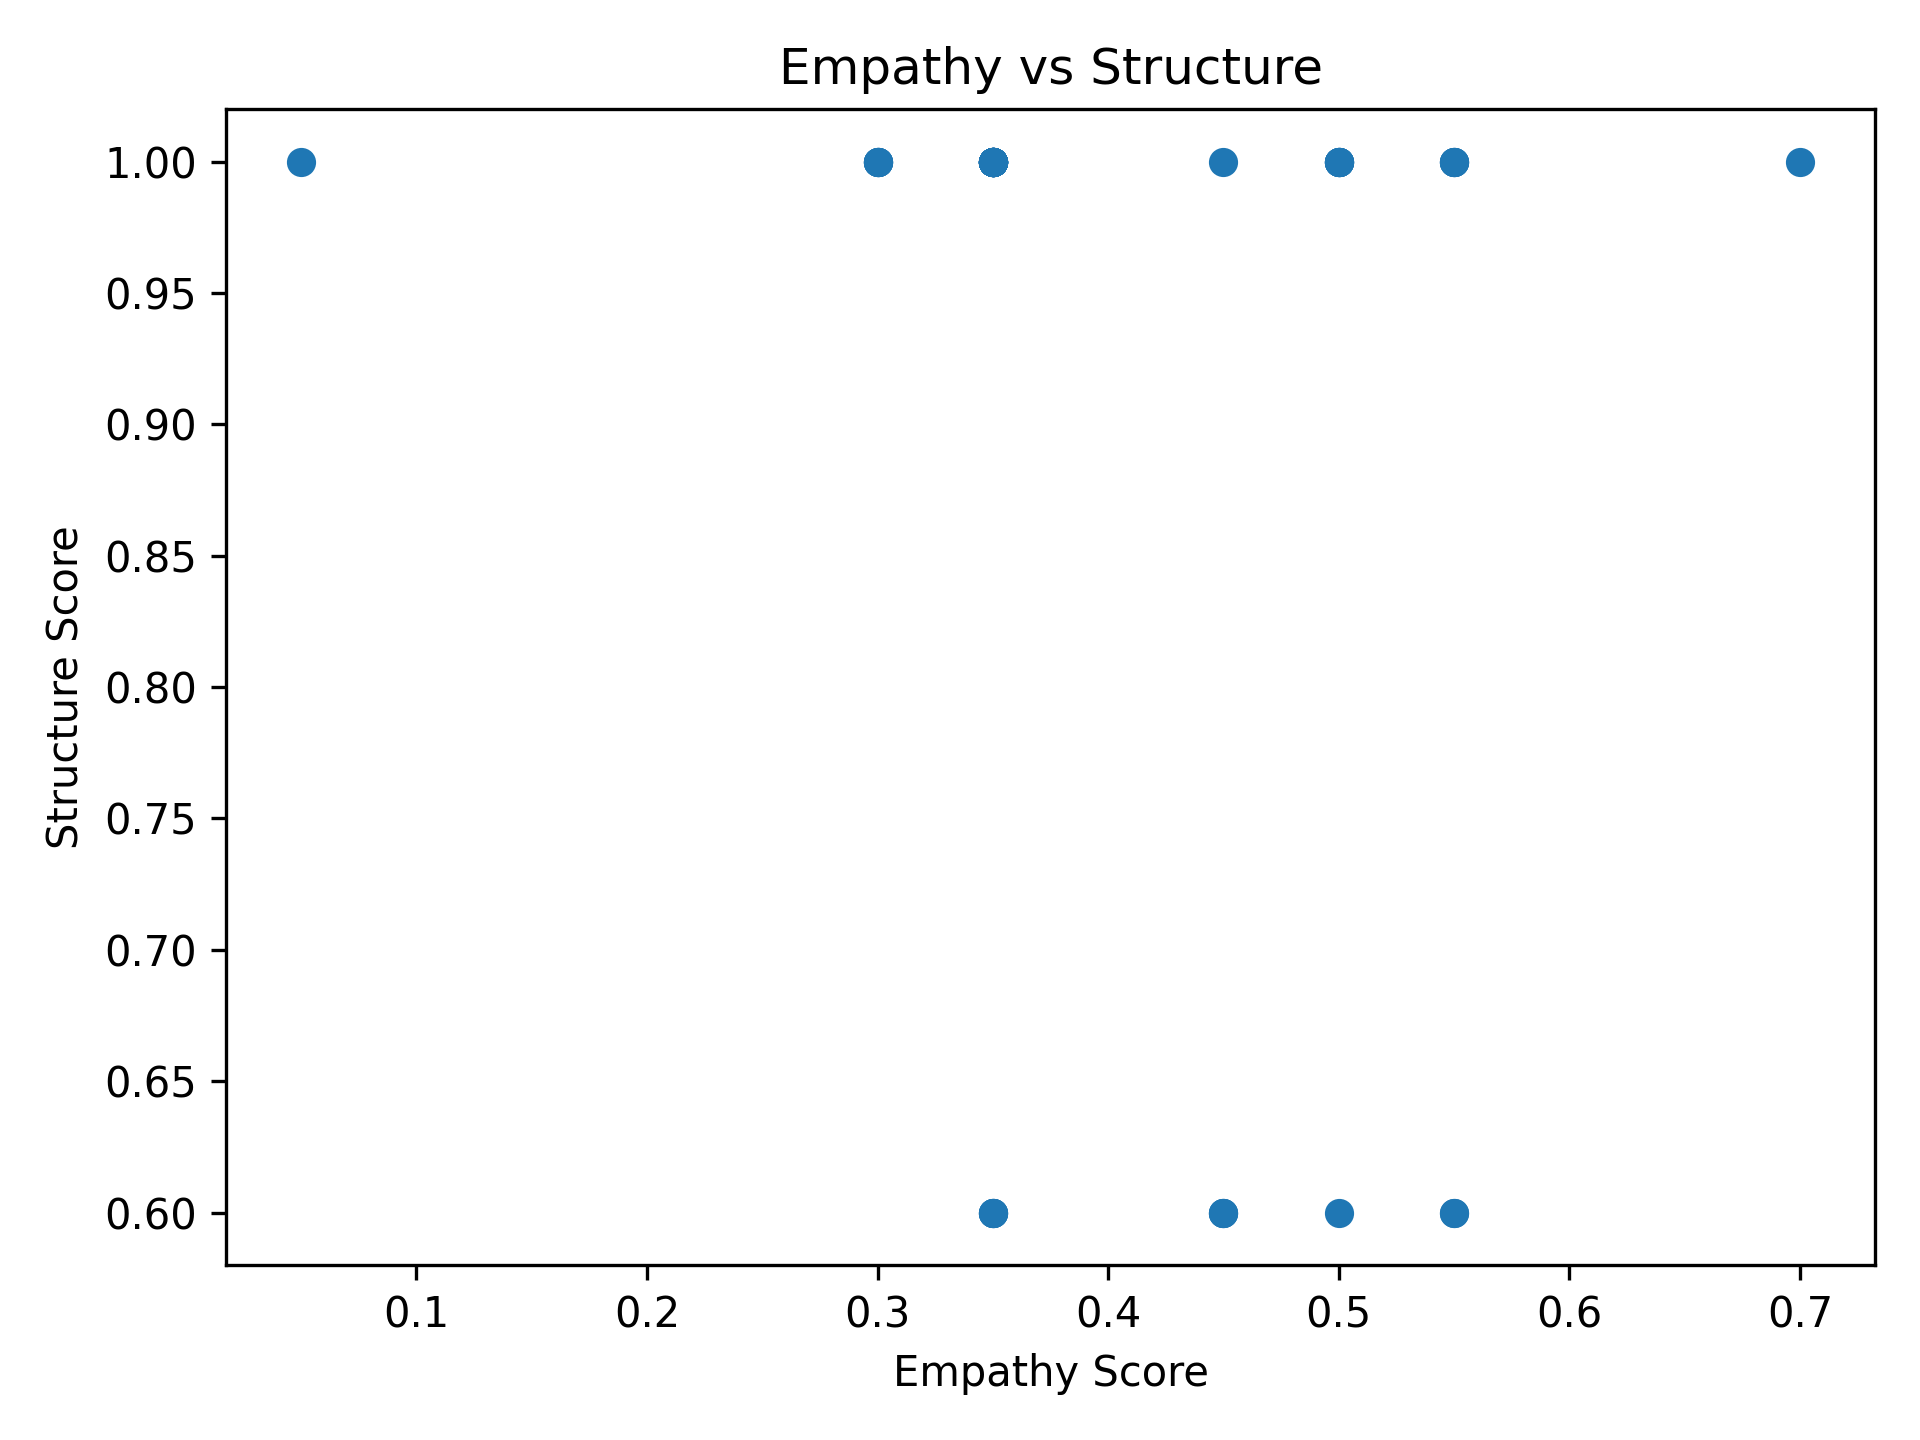
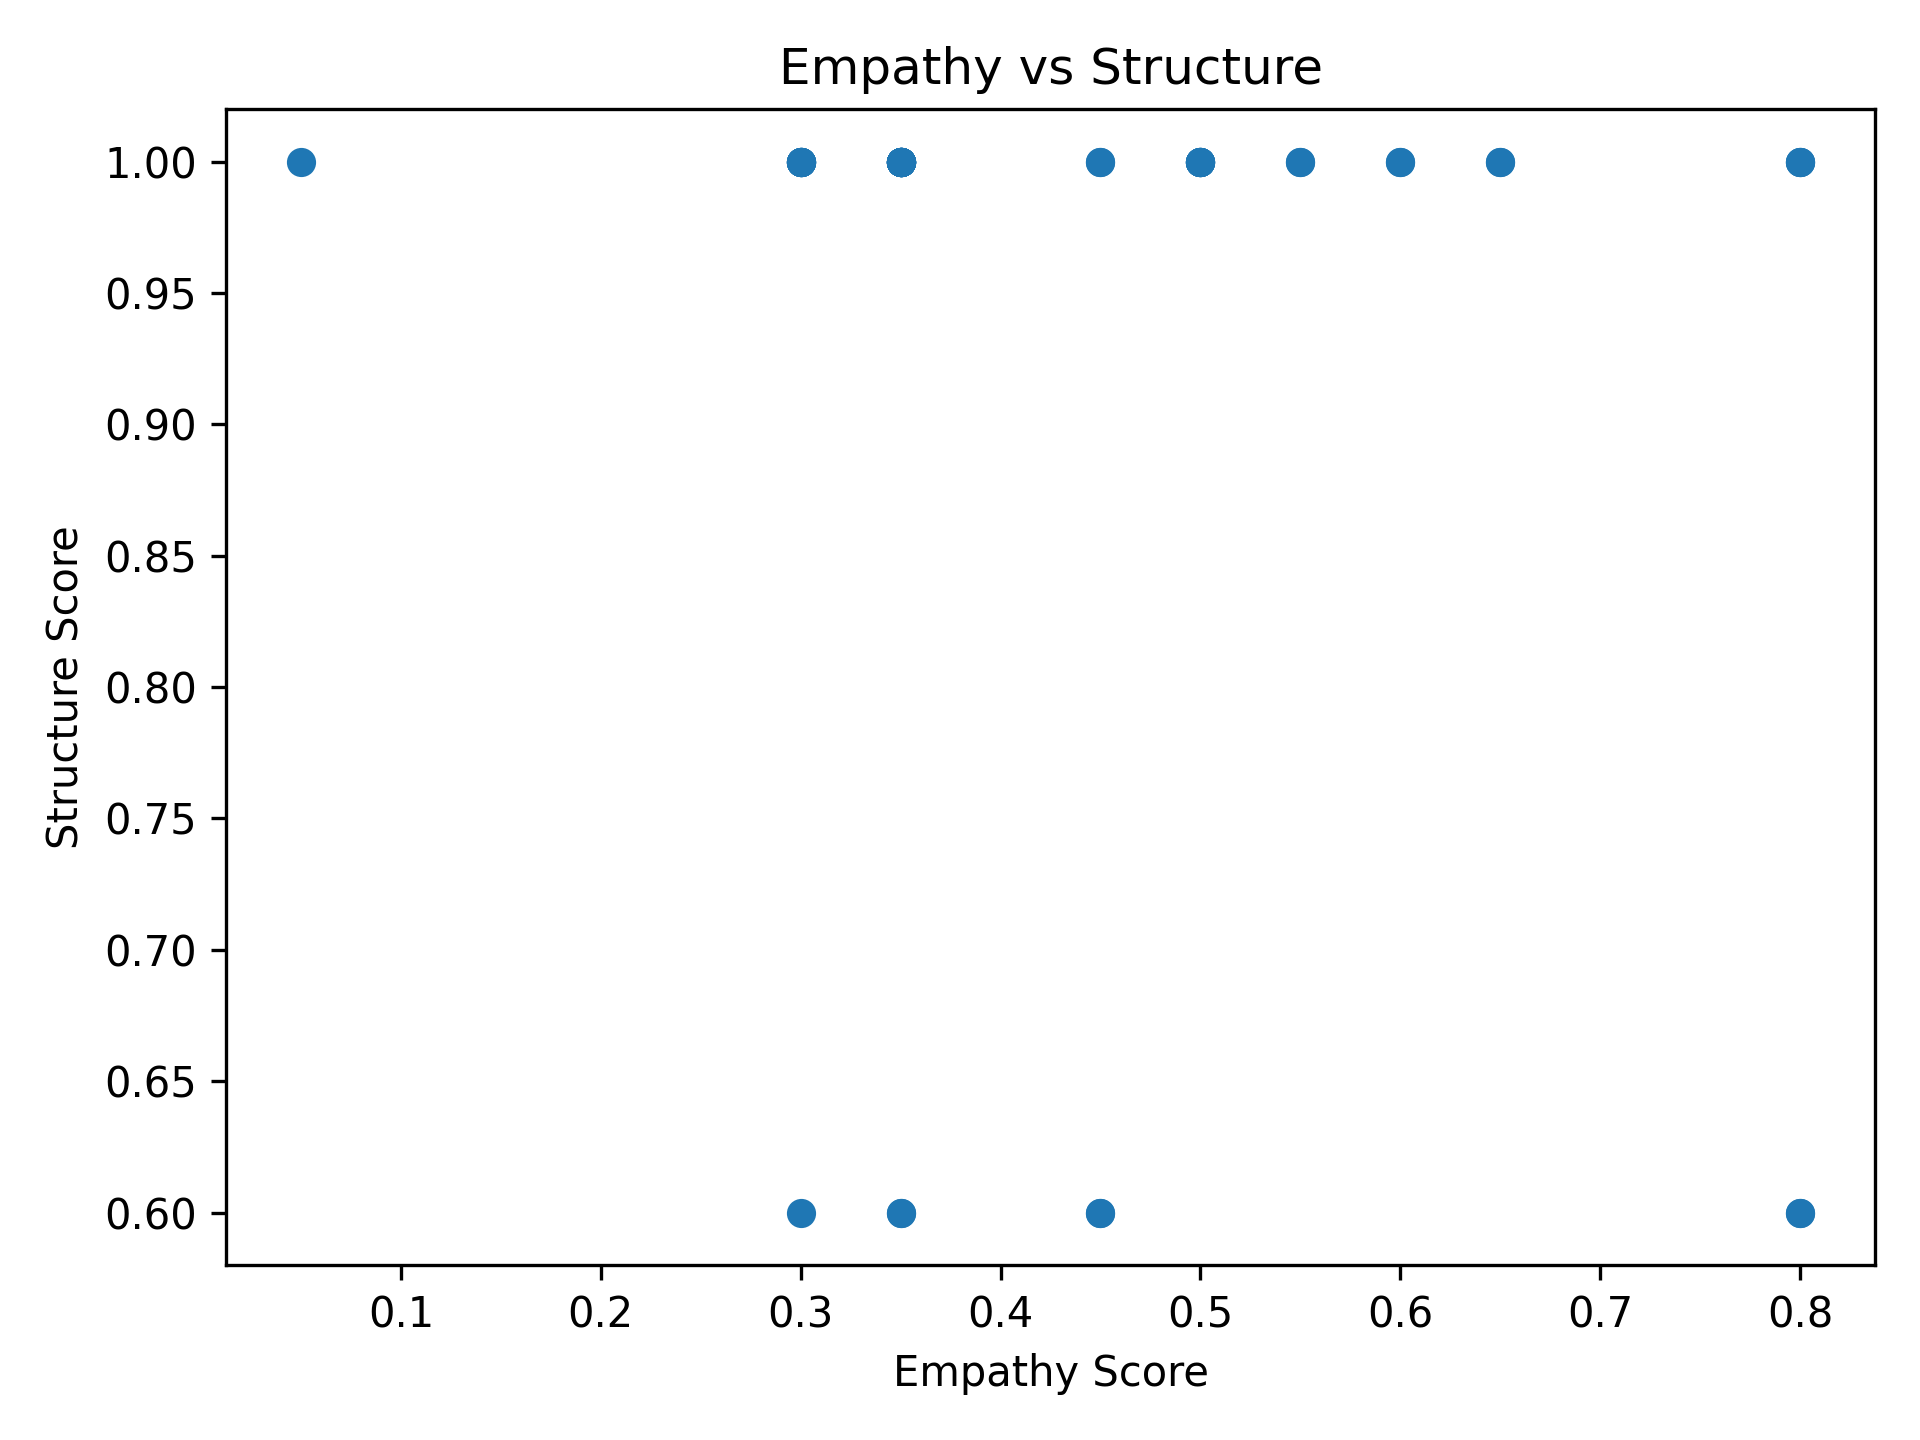
Improve response diversity: add variation to opening and reflection lines

diff --git a/src/generation/response_generator.py b/src/generation/response_generator.py
@@ -260,8 +260,14 @@ def assemble_prompt_trace(
     elif "failure" in text or "loser" in text or "worthless" in text or "ব্যর্থ" in text:
         opening_line = "Feeling like a failure can be really heavy to carry. But this feeling does not define you."
 
-    elif "anxiety" in text or "stress" in text or "pressure" in text or "চাপ" in text:
-        opening_line = "Feeling overwhelmed for so long can be exhausting. একটু ধীরে নিই।"
+    elif "anxiety" in text or "stress" in text or "pressure" in text:
+        opening_line = rnd.choice([
+        "Feeling overwhelmed for so long can be exhausting. একটু ধীরে নিই।",
+        "It sounds like things have been really heavy for you lately.",
+        "That kind of pressure can really build up over time.",
+        "মনে হচ্ছে অনেকদিন ধরে চাপটা জমে আছে।",
+        "I hear how much pressure you’re carrying right now.",
+    ])
 
     elif "nothing feels good" in text or "ভালো লাগছে না" in text:
         opening_line = "When nothing feels good, it can feel really heavy. আমি বুঝতে পারছি।"
@@ -269,7 +275,17 @@ def assemble_prompt_trace(
     else:
         opening_line = safe_choice(OPENING_LINES[empathy_level], rnd)
 
-    reflection_line = safe_choice(REFLECTION_LINES[empathy_level], rnd)
+    # Add more natural variation for reflection
+    if empathy_level == "mid" or empathy_level == "high":
+        reflection_line = rnd.choice([
+            "It sounds like this has been weighing on you for a while.",
+            "তোমার জায়গায় থাকলে এমন লাগা খুব স্বাভাবিক।",
+            "This kind of situation can feel really confusing.",
+            "It makes sense that you’re feeling this way.",
+            "You might be carrying a lot emotionally right now.",
+        ])
+    else:
+        reflection_line = safe_choice(REFLECTION_LINES[empathy_level], rnd)
 
     if opening_line:
         chosen_empathy_lines.append(opening_line)